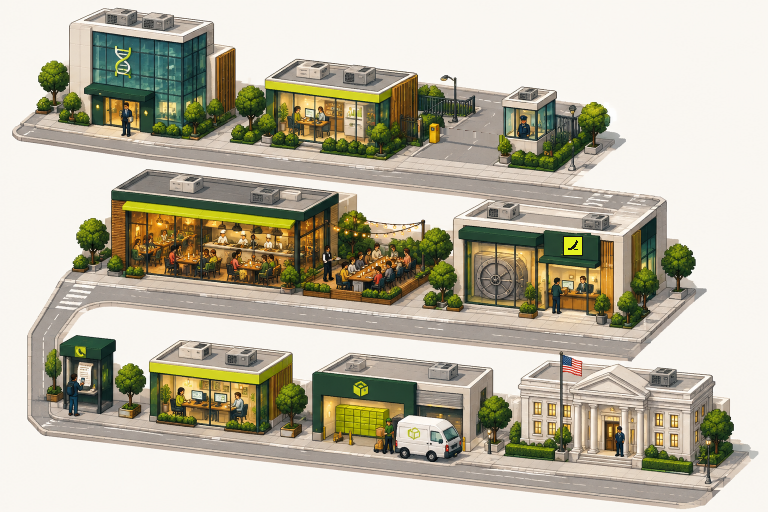
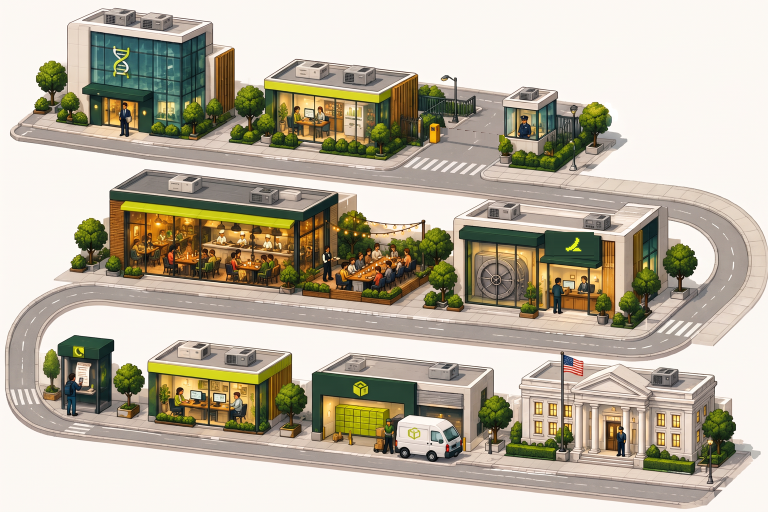
Town map: looping streets, a neon Ramp sign, and life inside the buildings
- Street turns redrawn in Weave from the same art: the top street now loops round the bank to the middle street,
  and the left loop is one smooth curve, each with a zebra crossing; the bell walks the outside of each loop and
  crosses at the zebra
- The bank's sign shows Ramp's mark as a lime neon glyph with a soft glow on the green sign (no box)
- Life inside, cut from the art itself so it keeps its style: chefs and the waiter at work, diners shifting at their
  tables, the accountants and the compliance reviewer typing, monitors' light changing, the teller, courier, guards
  and rep moving now and then, and the kiosk phone's camera flashing as the receipt is photographed

diff --git a/apps/web/lib/town.ts b/apps/web/lib/town.ts
@@ -11,6 +11,52 @@ export const LIFE = {
   bulbs: [[366, 223], [370, 223], [376, 224], [383, 225], [394, 226], [404, 226], [413, 225], [417, 226], [335, 228]] as [number, number][],
 };
 
+/**
+ * Life inside the buildings, cut from the town art itself so it stays in the same style: each is a small rectangle of
+ * the picture ([x, y, w, h]) that moves a pixel now and then. bob: a diner or guard shifting in their seat; sway: a
+ * chef or waiter working; type: someone at a keyboard; screen: a monitor's light changing. every/delay are in slow
+ * motion units, so no two move together.
+ */
+export const LIVES: { kind: 'bob' | 'sway' | 'type' | 'screen'; rect: [number, number, number, number]; every: number; delay: number }[] = [
+  // The restaurant: chefs at the pass, diners at their tables, the waiter on the terrace.
+  { kind: 'sway', rect: [217, 230, 10, 14], every: 5, delay: 0 },
+  { kind: 'sway', rect: [238, 230, 10, 14], every: 6.5, delay: 2 },
+  { kind: 'sway', rect: [262, 233, 10, 13], every: 5.5, delay: 4 },
+  { kind: 'bob', rect: [132, 239, 7, 8], every: 7, delay: 1 },
+  { kind: 'bob', rect: [168, 245, 7, 8], every: 6, delay: 3.5 },
+  { kind: 'bob', rect: [203, 250, 6, 7], every: 8, delay: 0.5 },
+  { kind: 'bob', rect: [209, 249, 6, 7], every: 6.5, delay: 5 },
+  { kind: 'bob', rect: [230, 251, 6, 7], every: 7.5, delay: 2.5 },
+  { kind: 'bob', rect: [261, 253, 6, 7], every: 6, delay: 6 },
+  { kind: 'bob', rect: [268, 252, 6, 7], every: 9, delay: 1.5 },
+  { kind: 'sway', rect: [323, 246, 10, 20], every: 8, delay: 3 },
+  { kind: 'bob', rect: [343, 258, 6, 7], every: 6.5, delay: 4.5 },
+  { kind: 'bob', rect: [358, 251, 6, 7], every: 8, delay: 0 },
+  { kind: 'bob', rect: [367, 248, 6, 7], every: 7, delay: 5.5 },
+  { kind: 'bob', rect: [374, 241, 6, 7], every: 9, delay: 2 },
+  { kind: 'bob', rect: [383, 241, 6, 7], every: 6, delay: 7 },
+  { kind: 'bob', rect: [392, 244, 6, 7], every: 7.5, delay: 3 },
+  { kind: 'bob', rect: [403, 248, 6, 7], every: 8.5, delay: 1 },
+  { kind: 'bob', rect: [377, 259, 6, 7], every: 6.5, delay: 6.5 },
+  { kind: 'bob', rect: [385, 260, 6, 7], every: 7, delay: 2.5 },
+  { kind: 'bob', rect: [395, 263, 6, 7], every: 8, delay: 4 },
+  { kind: 'bob', rect: [405, 266, 6, 7], every: 6, delay: 0.5 },
+  // The accounting office: two people typing, their monitors' light changing.
+  { kind: 'type', rect: [174, 386, 12, 14], every: 1.2, delay: 0 },
+  { kind: 'type', rect: [230, 391, 12, 13], every: 1.5, delay: 0.7 },
+  { kind: 'screen', rect: [190, 390, 12, 9], every: 4, delay: 1 },
+  { kind: 'screen', rect: [213, 393, 13, 9], every: 5, delay: 3 },
+  // The compliance reviewer, the bank teller, the courier, the guards and the rep at HQ.
+  { kind: 'type', rect: [291, 104, 13, 12], every: 1.4, delay: 0.3 },
+  { kind: 'bob', rect: [577, 275, 11, 10], every: 6, delay: 2 },
+  { kind: 'bob', rect: [381, 420, 14, 16], every: 3, delay: 0 },
+  { kind: 'bob', rect: [519, 114, 12, 12], every: 9, delay: 4 },
+  { kind: 'bob', rect: [615, 424, 10, 11], every: 10, delay: 6 },
+  { kind: 'bob', rect: [120, 101, 12, 12], every: 8, delay: 1 },
+];
+/** The phone at the kiosk: its camera flashes now and then as the receipt is photographed. */
+export const FLASH = { x: 78, y: 383 } as const;
+
 /** The checkpoint's boom gate: pivot on the yellow post, arm length, and its closed and lifted angles (degrees). */
 export const GATE = { x: 439, y: 130.5, length: 63, closed: 7.3, open: -80, light: { x: 433, y: 125 } } as const;
 /** The bank's vault wheel (public/town/wheel.png) and the window bar drawn in front of it. */
@@ -30,11 +76,13 @@ export const ROUTES: [number, number, 0 | 1][][] = [
   // Top street, left to right: HQ, then the compliance office and the checkpoint.
   [[60, 127, 0], [95, 131, 1], [130, 137, 1], [165, 141, 1], [200, 145, 1], [228, 147, 0]],
   [[260, 151, 1], [295, 155, 1], [330, 159, 1], [370, 164, 1], [455, 168, 1], [530, 177, 1], [612, 183, 0]],
-  // Round the corner and back along the middle street, right to left: the bank, then the restaurant.
-  [[640, 193, 0], [660, 212, 0], [660, 298, 0], [652, 318, 0], [630, 332, 0], [622, 333, 1], [588, 330, 1], [555, 325, 1], [505, 320, 1]],
+  // Round the outside of the right-hand loop, over the zebra crossing, and back along the middle street: the bank, then the restaurant.
+  [[640, 188, 0], [668, 192, 0], [695, 197, 0], [718, 205, 0], [737, 218, 0], [750, 238, 0], [753, 262, 0], [748, 286, 0], [737, 305, 0], [720, 320, 0],
+    [703, 331, 0], [678, 332, 0], [652, 331, 0], [622, 333, 1], [588, 330, 1], [555, 325, 1], [505, 320, 1]],
   [[415, 313, 1], [350, 305, 1], [280, 298, 1], [200, 288, 1], [150, 284, 0]],
-  // Across at the zebra crossing and down to the bottom street: the phone kiosk.
-  [[95, 281, 0], [74, 284, 0], [62, 298, 0], [45, 316, 0], [40, 350, 0], [40, 394, 0], [52, 410, 0], [70, 417, 1], [92, 419, 1], [114, 421, 1], [136, 423, 1]],
+  // Round the outside of the left-hand loop and over its zebra crossing to the bottom street: the phone kiosk.
+  [[95, 281, 0], [60, 281, 0], [35, 288, 0], [20, 300, 0], [13, 320, 0], [9, 350, 0], [10, 380, 0], [12, 394, 0], [28, 397, 0], [42, 402, 0], [55, 410, 0],
+    [70, 417, 1], [92, 419, 1], [114, 421, 1], [136, 423, 1]],
   // Along the bottom street, left to right: the accounting office, the parcel depot, the federal building.
   [[165, 427, 1], [190, 431, 1], [215, 434, 1], [240, 436, 1], [262, 439, 1], [286, 442, 1]],
   [[325, 446, 1], [358, 451, 1], [374, 459, 0], [395, 464, 0], [462, 468, 0], [486, 461, 0], [560, 467, 1], [612, 473, 1], [690, 481, 0]],

diff --git a/apps/web/app/globals.css b/apps/web/app/globals.css
@@ -33,6 +33,12 @@
 @keyframes covers-rustle { 0%, 86%, 100% { transform: translateX(0); } 89% { transform: translateX(1px); } 92% { transform: translateX(0); } 95% { transform: translateX(-1px); } }
 @keyframes covers-vault { 0% { transform: rotate(0deg); filter: none; } 15% { filter: drop-shadow(0 0 3px var(--color-accent)); } 85% { transform: rotate(360deg); filter: drop-shadow(0 0 3px var(--color-accent)); } 100% { transform: rotate(360deg); filter: none; } }
 @keyframes covers-glow { 0%, 100% { opacity: 0.85; } 50% { opacity: 0.6; } }
+/* Life cut from the town art: a pixel of movement now and then, never all together (timing set per element). */
+@keyframes covers-bob { 0%, 68%, 100% { transform: translateY(0); } 72%, 84% { transform: translateY(-1px); } }
+@keyframes covers-sway { 0%, 40%, 100% { transform: translateX(0); } 45%, 70% { transform: translateX(1px); } 75%, 85% { transform: translateX(-1px); } }
+@keyframes covers-type { 0%, 100% { transform: translateY(0); } 50% { transform: translateY(1px); } }
+@keyframes covers-screen { 0%, 100% { filter: brightness(1); } 50% { filter: brightness(1.18); } }
+@keyframes covers-flash { 0%, 90%, 100% { opacity: 0; } 92%, 94% { opacity: 1; } }
 @keyframes covers-blink { 0%, 100% { opacity: 1; } 50% { opacity: 0.15; } }
 @keyframes covers-twinkle { 0%, 100% { opacity: 1; } 50% { opacity: 0.25; } }
 @keyframes covers-steam { 0% { opacity: 0; transform: translateY(0); } 20% { opacity: 0.9; } 100% { opacity: 0; transform: translateY(calc(var(--space-3) * -1)); } }
@@ -41,6 +47,11 @@
 .covers-vault { animation: covers-vault calc(var(--motion-duration-slow) * 6) steps(24, end) 1 both; }
 .covers-glow { animation: covers-glow calc(var(--motion-duration-slow) * 9) steps(4, end) infinite; }
 .covers-blink-fast { animation: covers-blink calc(var(--motion-duration-slow) / 2) steps(1, end) infinite; }
+.covers-bob { animation-name: covers-bob; animation-timing-function: steps(1, end); animation-iteration-count: infinite; }
+.covers-sway { animation-name: covers-sway; animation-timing-function: steps(1, end); animation-iteration-count: infinite; }
+.covers-type { animation-name: covers-type; animation-timing-function: steps(1, end); animation-iteration-count: infinite; }
+.covers-screen { animation-name: covers-screen; animation-timing-function: steps(3, end); animation-iteration-count: infinite; }
+.covers-flash { opacity: 0; animation: covers-flash calc(var(--motion-duration-slow) * 14) steps(1, end) infinite; }
 .covers-blink { animation: covers-blink calc(var(--motion-duration-slow) * 2) steps(1, end) infinite; }
 .covers-twinkle { animation: covers-twinkle calc(var(--motion-duration-slow) * 3) steps(2, end) infinite; }
 .covers-steam { animation: covers-steam calc(var(--motion-duration-slow) * 6) steps(6, end) infinite; }
@@ -60,6 +71,6 @@
 .covers-waiter { animation: covers-waiter-walk calc(var(--motion-duration-slow) * 20) steps(80, end) infinite, covers-waiter-legs calc(var(--motion-duration-slow)) steps(2, end) infinite; }
 @media (prefers-reduced-motion: reduce) {
   .covers-waiter,
-  .covers-rustle, .covers-blink, .covers-twinkle, .covers-steam, .covers-vault, .covers-glow, .covers-blink-fast, .covers-stroll { animation: none; }
+  .covers-rustle, .covers-blink, .covers-twinkle, .covers-steam, .covers-vault, .covers-glow, .covers-blink-fast, .covers-stroll, .covers-bob, .covers-sway, .covers-type, .covers-screen, .covers-flash { animation: none; }
   .covers-stamp, .covers-card, .covers-charge, .covers-line, .covers-flash { animation: none; }
 }

diff --git a/apps/web/components/dinner-map.tsx b/apps/web/components/dinner-map.tsx
@@ -13,7 +13,7 @@ import { openFlag, STEPS, stepOf, usd, type Role } from '../lib/dinner';
 import { AUDIT_STEP, cardLimitOf, changedStations, dayOf, EASE_STANDARD, headcountOf, layoutPath, nameOf, restingStation, sourceOf, speakerOf, STEP_KEYS, stationsFor, thinkingLines, type DinnerState, type DocRef, type Station } from '../lib/map';
 import { AppBar, readRole, setRoleCookie } from './app-bar';
 import { Bell, BELL_FRAMES } from './bell';
-import { BELL_ART, camera as frameOf, GATE, LIFE, PLACES, TOWN, TREE_LAYERS, WHEEL, townPath, type Camera } from '../lib/town';
+import { BELL_ART, camera as frameOf, FLASH, GATE, LIFE, LIVES, PLACES, TOWN, TREE_LAYERS, WHEEL, townPath, type Camera } from '../lib/town';
 import { DocCard } from './doc-card';
 import { RampCard } from './ramp-card';
 import { Stamp, type StampTone } from './stamp';
@@ -541,6 +541,9 @@ export function DinnerMap({ planId }: { planId: string }) {
                 <div ref={artLayer} className={`pointer-events-none absolute top-0 left-0 ease-standard motion-reduce:transition-none ${dragging || look ? '' : 'transition-transform duration-[calc(var(--motion-duration-slow)*2)]'}`} style={{ width: TOWN.width, height: TOWN.height, transformOrigin: '0 0', transform: `translate(${geometry.camera.x}px, ${geometry.camera.y}px) scale(${geometry.camera.scale})` }}>
                   <img src={TOWN.src} alt={`The town: ${PLACES.map((p) => p.name).join(', ')}`} width={TOWN.width} height={TOWN.height} draggable={false} className="block [image-rendering:pixelated]" />
                   {/* The town is alive: trees rustle a pixel and the terrace's string lights twinkle. */}
+                  {/* Life inside: pieces of the picture itself shift a pixel now and then (diners, chefs, typists, screens). */}
+                  {LIVES.map((l, n) => <i key={`life-${n}`} className={`covers-${l.kind} absolute`} style={{ left: l.rect[0], top: l.rect[1], width: l.rect[2], height: l.rect[3], backgroundImage: `url(${TOWN.src})`, backgroundPosition: `${-l.rect[0]}px ${-l.rect[1]}px`, backgroundSize: `${TOWN.width}px ${TOWN.height}px`, imageRendering: 'pixelated', animationDuration: `calc(var(--motion-duration-slow) * ${l.every * 2})`, animationDelay: `calc(var(--motion-duration-slow) * ${-l.delay * 2})` }} />)}
+                  <i className="covers-flash absolute bg-bg-surface" style={{ left: FLASH.x, top: FLASH.y, width: 2, height: 2 }} />
                   {TREE_LAYERS.map((t) => <img key={t.src} src={t.src} alt="" width={TOWN.width} height={TOWN.height} draggable={false} className="covers-rustle absolute inset-0 [image-rendering:pixelated]" style={{ animationDuration: `calc(var(--motion-duration-slow) * ${t.every * 2})`, animationDelay: `calc(var(--motion-duration-slow) * ${t.offset * 2})` }} />)}
                   {LIFE.bulbs.map(([x, y], n) => <i key={n} className="covers-twinkle absolute bg-accent" style={{ left: x, top: y, width: 1, height: 1, animationDelay: `calc(var(--motion-stagger) * ${(n * 7) % 19})` }} />)}
                   {/* The checkpoint's boom gate lifts once the red-flag check is clear, and stays down while something is flagged. */}
